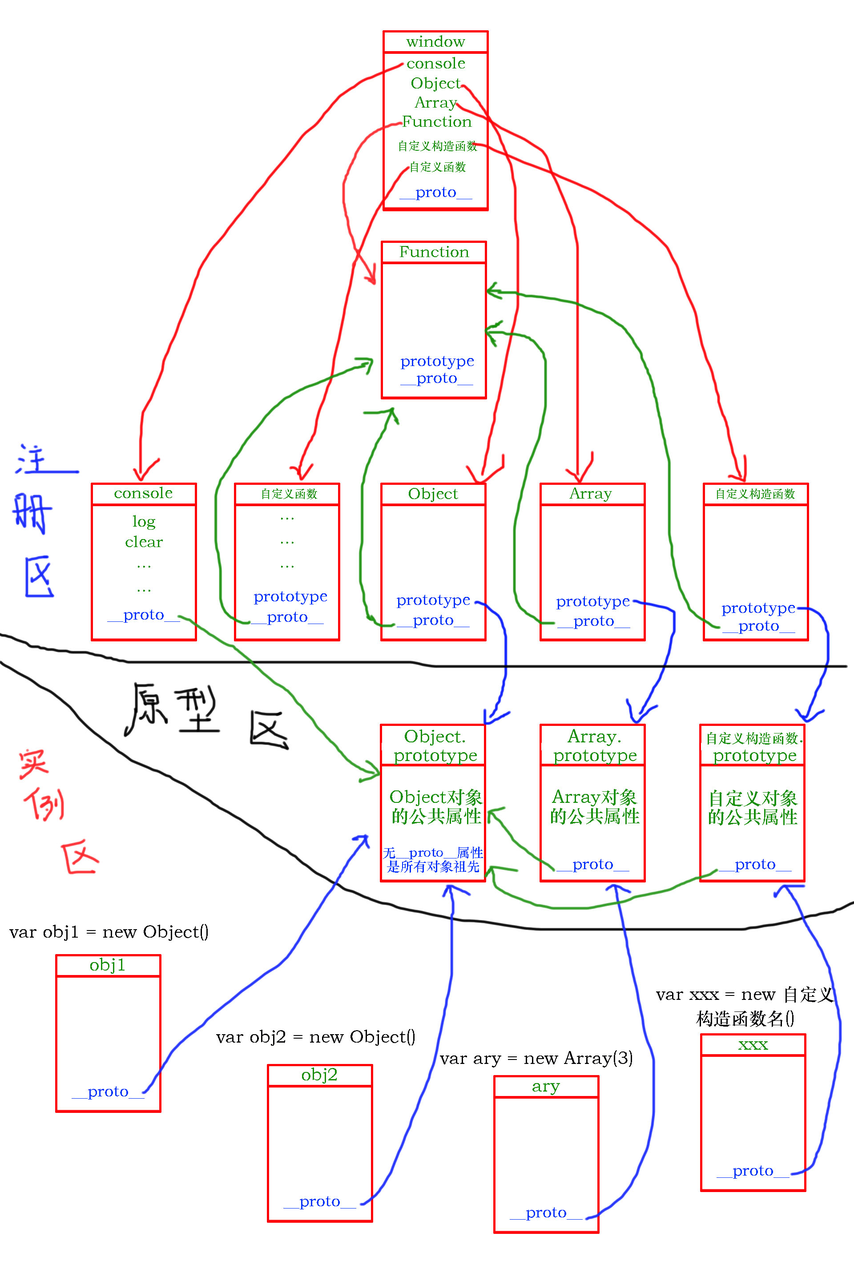
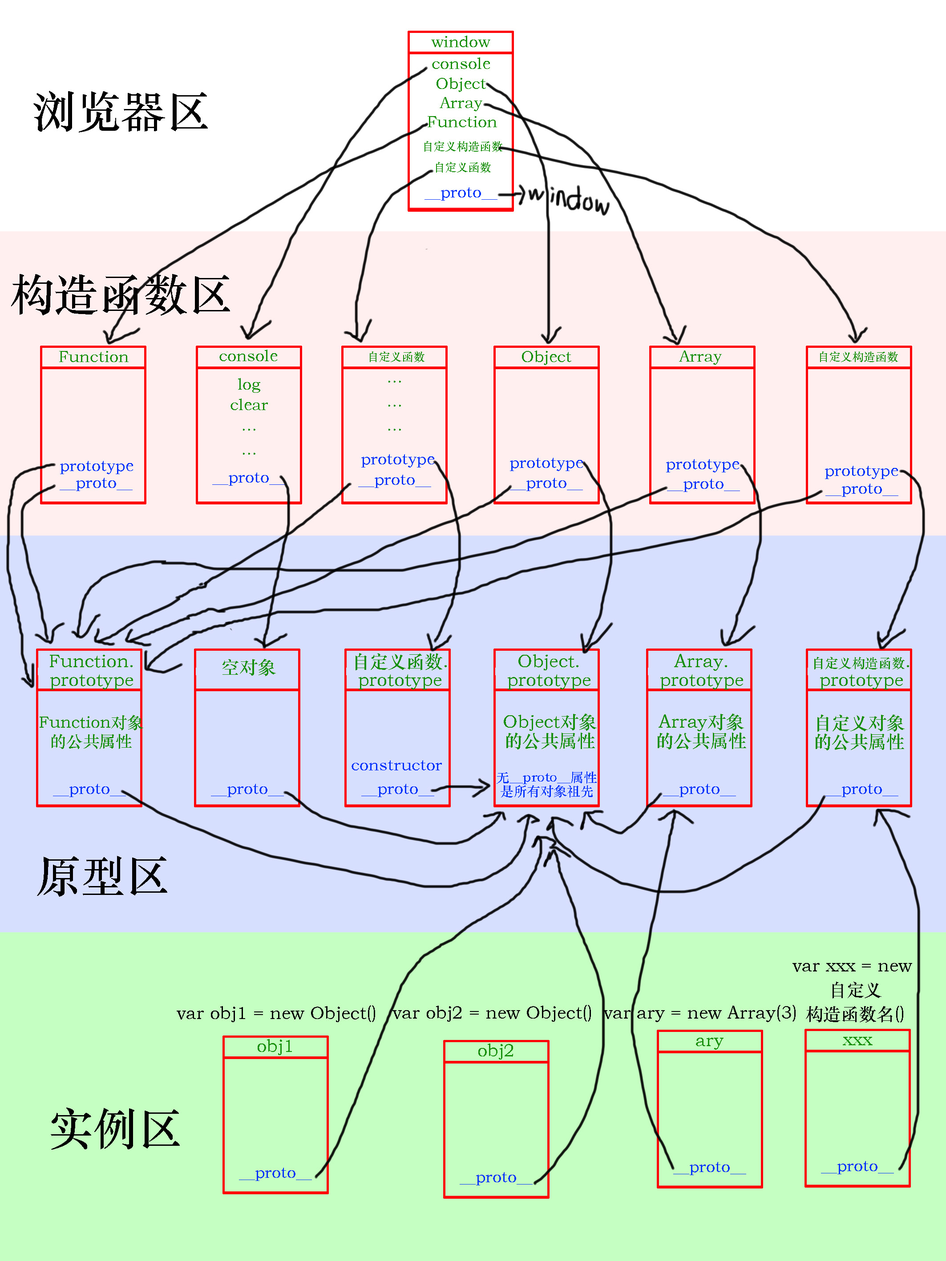
修改博客

diff --git a/posts/javascript-mountain-proto/index.html b/posts/javascript-mountain-proto/index.html
@@ -84,14 +84,14 @@
         "@context": "https://schema.org",
         "@type": "BlogPosting",
         "datePublished": "2020-02-01T21:43:40+08:00",
-        "dateModified": "2020-02-01T21:48:25+08:00",
+        "dateModified": "2020-02-02T00:00:59+08:00",
         "url": "https://twinklelixn.top/posts/javascript-mountain-proto/",
         "headline": "JS三座大山之原型",
         "description": "1. 什么是原型 原型这个东西真的是JavaScript原创的，和别的语言的抽象和继承不太……",
         "keywords": "js三座大山, 原型",
         "inLanguage" : "zh-CN",
         "articleSection": "posts",
-        "wordCount":  2044 ,
+        "wordCount":  1952 ,
         "image": ["https://twinklelixn.top/imgs/JS%E5%8E%9F%E5%9E%8B%E4%B8%96%E7%95%8C.jpg"],
         "author": {
             "@type": "Person",
@@ -141,7 +141,7 @@
 <meta property="og:locale" content="zh-CN" /><meta property="og:image" content="https://twinklelixn.top/imgs/JS%E5%8E%9F%E5%9E%8B%E4%B8%96%E7%95%8C.jpg" />
 <meta property="og:type" content="article" />
     <meta property="article:published_time" content="2020-02-01T21:43:40+08:00" />
-    <meta property="article:modified_time" content="2020-02-01T21:48:25+08:00" />
+    <meta property="article:modified_time" content="2020-02-02T00:00:59+08:00" />
     
     <meta property="article:section" content="posts" />
     <meta property="article:tag" content="js三座大山, 原型" />
@@ -220,7 +220,7 @@
     
     
         
-        <time datetime="2020-02-01T21:48:25+08:00" class="post-meta-item modified"><svg xmlns="http://www.w3.org/2000/svg" viewBox="0 0 448 512" class="icon post-meta-icon"><path d="M400 64h-48V12c0-6.627-5.373-12-12-12h-40c-6.627 0-12 5.373-12 12v52H160V12c0-6.627-5.373-12-12-12h-40c-6.627 0-12 5.373-12 12v52H48C21.49 64 0 85.49 0 112v352c0 26.51 21.49 48 48 48h352c26.51 0 48-21.49 48-48V112c0-26.51-21.49-48-48-48zm-6 400H54a6 6 0 0 1-6-6V160h352v298a6 6 0 0 1-6 6zm-52.849-200.65L198.842 404.519c-4.705 4.667-12.303 4.637-16.971-.068l-75.091-75.699c-4.667-4.705-4.637-12.303.068-16.971l22.719-22.536c4.705-4.667 12.303-4.637 16.97.069l44.104 44.461 111.072-110.181c4.705-4.667 12.303-4.637 16.971.068l22.536 22.718c4.667 4.705 4.636 12.303-.069 16.97z"/></svg>&nbsp;2020.2.1</time>
+        <time datetime="2020-02-02T00:00:59+08:00" class="post-meta-item modified"><svg xmlns="http://www.w3.org/2000/svg" viewBox="0 0 448 512" class="icon post-meta-icon"><path d="M400 64h-48V12c0-6.627-5.373-12-12-12h-40c-6.627 0-12 5.373-12 12v52H160V12c0-6.627-5.373-12-12-12h-40c-6.627 0-12 5.373-12 12v52H48C21.49 64 0 85.49 0 112v352c0 26.51 21.49 48 48 48h352c26.51 0 48-21.49 48-48V112c0-26.51-21.49-48-48-48zm-6 400H54a6 6 0 0 1-6-6V160h352v298a6 6 0 0 1-6 6zm-52.849-200.65L198.842 404.519c-4.705 4.667-12.303 4.637-16.971-.068l-75.091-75.699c-4.667-4.705-4.637-12.303.068-16.971l22.719-22.536c4.705-4.667 12.303-4.637 16.97.069l44.104 44.461 111.072-110.181c4.705-4.667 12.303-4.637 16.971.068l22.536 22.718c4.667 4.705 4.636 12.303-.069 16.97z"/></svg>&nbsp;2020.2.2</time>
     
     
     
@@ -235,11 +235,11 @@
     
     
         
-        <span class="post-meta-item wordcount"><svg xmlns="http://www.w3.org/2000/svg" viewBox="0 0 512 512" class="icon post-meta-icon"><path d="M497.9 142.1l-46.1 46.1c-4.7 4.7-12.3 4.7-17 0l-111-111c-4.7-4.7-4.7-12.3 0-17l46.1-46.1c18.7-18.7 49.1-18.7 67.9 0l60.1 60.1c18.8 18.7 18.8 49.1 0 67.9zM284.2 99.8L21.6 362.4.4 483.9c-2.9 16.4 11.4 30.6 27.8 27.8l121.5-21.3 262.6-262.6c4.7-4.7 4.7-12.3 0-17l-111-111c-4.8-4.7-12.4-4.7-17.1 0zM124.1 339.9c-5.5-5.5-5.5-14.3 0-19.8l154-154c5.5-5.5 14.3-5.5 19.8 0s5.5 14.3 0 19.8l-154 154c-5.5 5.5-14.3 5.5-19.8 0zM88 424h48v36.3l-64.5 11.3-31.1-31.1L51.7 376H88v48z"/></svg>&nbsp;2044</span>
+        <span class="post-meta-item wordcount"><svg xmlns="http://www.w3.org/2000/svg" viewBox="0 0 512 512" class="icon post-meta-icon"><path d="M497.9 142.1l-46.1 46.1c-4.7 4.7-12.3 4.7-17 0l-111-111c-4.7-4.7-4.7-12.3 0-17l46.1-46.1c18.7-18.7 49.1-18.7 67.9 0l60.1 60.1c18.8 18.7 18.8 49.1 0 67.9zM284.2 99.8L21.6 362.4.4 483.9c-2.9 16.4 11.4 30.6 27.8 27.8l121.5-21.3 262.6-262.6c4.7-4.7 4.7-12.3 0-17l-111-111c-4.8-4.7-12.4-4.7-17.1 0zM124.1 339.9c-5.5-5.5-5.5-14.3 0-19.8l154-154c5.5-5.5 14.3-5.5 19.8 0s5.5 14.3 0 19.8l-154 154c-5.5 5.5-14.3 5.5-19.8 0zM88 424h48v36.3l-64.5 11.3-31.1-31.1L51.7 376H88v48z"/></svg>&nbsp;1952</span>
     
     
         
-        <span class="post-meta-item reading-time"><svg xmlns="http://www.w3.org/2000/svg" viewBox="0 0 512 512" class="icon post-meta-icon"><path d="M256 8C119 8 8 119 8 256s111 248 248 248 248-111 248-248S393 8 256 8zm0 448c-110.5 0-200-89.5-200-200S145.5 56 256 56s200 89.5 200 200-89.5 200-200 200zm61.8-104.4l-84.9-61.7c-3.1-2.3-4.9-5.9-4.9-9.7V116c0-6.6 5.4-12 12-12h32c6.6 0 12 5.4 12 12v141.7l66.8 48.6c5.4 3.9 6.5 11.4 2.6 16.8L334.6 349c-3.9 5.3-11.4 6.5-16.8 2.6z"/></svg>&nbsp;5&nbsp;分钟</span>
+        <span class="post-meta-item reading-time"><svg xmlns="http://www.w3.org/2000/svg" viewBox="0 0 512 512" class="icon post-meta-icon"><path d="M256 8C119 8 8 119 8 256s111 248 248 248 248-111 248-248S393 8 256 8zm0 448c-110.5 0-200-89.5-200-200S145.5 56 256 56s200 89.5 200 200-89.5 200-200 200zm61.8-104.4l-84.9-61.7c-3.1-2.3-4.9-5.9-4.9-9.7V116c0-6.6 5.4-12 12-12h32c6.6 0 12 5.4 12 12v141.7l66.8 48.6c5.4 3.9 6.5 11.4 2.6 16.8L334.6 349c-3.9 5.3-11.4 6.5-16.8 2.6z"/></svg>&nbsp;4&nbsp;分钟</span>
     
     
 </div>
@@ -259,11 +259,18 @@
 <h5 id="4---用户可通过构造函数创建自定义的对象分类并自定义其原型对象内容"><a href="#4---用户可通过构造函数创建自定义的对象分类并自定义其原型对象内容" class="anchor-link"><svg xmlns="http://www.w3.org/2000/svg" viewBox="0 0 512 512" class="icon anchor-icon"><path d="M326.612 185.391c59.747 59.809 58.927 155.698.36 214.59-.11.12-.24.25-.36.37l-67.2 67.2c-59.27 59.27-155.699 59.262-214.96 0-59.27-59.26-59.27-155.7 0-214.96l37.106-37.106c9.84-9.84 26.786-3.3 27.294 10.606.648 17.722 3.826 35.527 9.69 52.721 1.986 5.822.567 12.262-3.783 16.612l-13.087 13.087c-28.026 28.026-28.905 73.66-1.155 101.96 28.024 28.579 74.086 28.749 102.325.51l67.2-67.19c28.191-28.191 28.073-73.757 0-101.83-3.701-3.694-7.429-6.564-10.341-8.569a16.037 16.037 0 0 1-6.947-12.606c-.396-10.567 3.348-21.456 11.698-29.806l21.054-21.055c5.521-5.521 14.182-6.199 20.584-1.731a152.482 152.482 0 0 1 20.522 17.197zM467.547 44.449c-59.261-59.262-155.69-59.27-214.96 0l-67.2 67.2c-.12.12-.25.25-.36.37-58.566 58.892-59.387 154.781.36 214.59a152.454 152.454 0 0 0 20.521 17.196c6.402 4.468 15.064 3.789 20.584-1.731l21.054-21.055c8.35-8.35 12.094-19.239 11.698-29.806a16.037 16.037 0 0 0-6.947-12.606c-2.912-2.005-6.64-4.875-10.341-8.569-28.073-28.073-28.191-73.639 0-101.83l67.2-67.19c28.239-28.239 74.3-28.069 102.325.51 27.75 28.3 26.872 73.934-1.155 101.96l-13.087 13.087c-4.35 4.35-5.769 10.79-3.783 16.612 5.864 17.194 9.042 34.999 9.69 52.721.509 13.906 17.454 20.446 27.294 10.606l37.106-37.106c59.271-59.259 59.271-155.699.001-214.959z"/></svg></a>4)   用户可通过构造函数创建自定义的对象分类，并自定义其原型对象内容。</h5>
 <p>好了，记住以上问题就可以看如下关系草图了：</p>
 <p><img src="/imgs/JS%E5%8E%9F%E5%9E%8B%E4%B8%96%E7%95%8C.jpg" alt="JS原型世界" data-zoomable></p>
-<p>以上草图将各类对象间的联系画的很清楚，也可以看出，在JS中，对象之间都是有联系的，以上只需要搞清楚三个区域即可，原型就是在原型区。而且，其实对象根本就没有名字，只有一个地址，上面赋予的对象名字其实是值等于该对象地址的属性名或者变量名。</p>
-<p>而且再钻牛角尖一点可以看到，上图的Function函数对象的prototype属性和__proto__属性没有画指向对象，这个比较复杂，而且难以理解，其实，Function对象的prototype属性指向的对象是自己，然后指向对象的__proto__属性指向的是祖宗对象Object.prototype。也就是说，prototype属性从自己饶了一圈指向祖宗对象。然后Function对象的__proto__属性指向的对象是自己，然后指向对象的__proto__属性指向的是祖宗对象Object.prototype，也就是说，__proto__属性也是从自己饶了一圈指向祖宗对象。</p>
-<p>奇怪不，prototype自己绕一圈可以理解，你个__proto__绕一圈是为啥？</p>
-<p>所以，暂时不深究，只需要理解原型的由来和可自定义即可。</p>
-<h2 id="3-原型运用"><a href="#3-原型运用" class="anchor-link"><svg xmlns="http://www.w3.org/2000/svg" viewBox="0 0 512 512" class="icon anchor-icon"><path d="M326.612 185.391c59.747 59.809 58.927 155.698.36 214.59-.11.12-.24.25-.36.37l-67.2 67.2c-59.27 59.27-155.699 59.262-214.96 0-59.27-59.26-59.27-155.7 0-214.96l37.106-37.106c9.84-9.84 26.786-3.3 27.294 10.606.648 17.722 3.826 35.527 9.69 52.721 1.986 5.822.567 12.262-3.783 16.612l-13.087 13.087c-28.026 28.026-28.905 73.66-1.155 101.96 28.024 28.579 74.086 28.749 102.325.51l67.2-67.19c28.191-28.191 28.073-73.757 0-101.83-3.701-3.694-7.429-6.564-10.341-8.569a16.037 16.037 0 0 1-6.947-12.606c-.396-10.567 3.348-21.456 11.698-29.806l21.054-21.055c5.521-5.521 14.182-6.199 20.584-1.731a152.482 152.482 0 0 1 20.522 17.197zM467.547 44.449c-59.261-59.262-155.69-59.27-214.96 0l-67.2 67.2c-.12.12-.25.25-.36.37-58.566 58.892-59.387 154.781.36 214.59a152.454 152.454 0 0 0 20.521 17.196c6.402 4.468 15.064 3.789 20.584-1.731l21.054-21.055c8.35-8.35 12.094-19.239 11.698-29.806a16.037 16.037 0 0 0-6.947-12.606c-2.912-2.005-6.64-4.875-10.341-8.569-28.073-28.073-28.191-73.639 0-101.83l67.2-67.19c28.239-28.239 74.3-28.069 102.325.51 27.75 28.3 26.872 73.934-1.155 101.96l-13.087 13.087c-4.35 4.35-5.769 10.79-3.783 16.612 5.864 17.194 9.042 34.999 9.69 52.721.509 13.906 17.454 20.446 27.294 10.606l37.106-37.106c59.271-59.259 59.271-155.699.001-214.959z"/></svg></a>3. 原型运用</h2>
+<p>以上草图将各类对象间的联系画的很清楚，也可以看出，在JS中，对象之间都是有联系的，以上只需要搞清楚三个区域即可，即构造函数区、原型区、实例区。window是属于浏览器的，不在JS世界里，不用深究。我们提到的原型就是在原型区。</p>
+<p>而且，其实对象根本就没有名字，只有一个地址，上面赋予的对象名字其实是值等于该对象地址的属性名或者变量名，为了方便画图才给对象命名的，实际是对象没名字，只有个地址。</p>
+<h2 id="3-原型定律"><a href="#3-原型定律" class="anchor-link"><svg xmlns="http://www.w3.org/2000/svg" viewBox="0 0 512 512" class="icon anchor-icon"><path d="M326.612 185.391c59.747 59.809 58.927 155.698.36 214.59-.11.12-.24.25-.36.37l-67.2 67.2c-59.27 59.27-155.699 59.262-214.96 0-59.27-59.26-59.27-155.7 0-214.96l37.106-37.106c9.84-9.84 26.786-3.3 27.294 10.606.648 17.722 3.826 35.527 9.69 52.721 1.986 5.822.567 12.262-3.783 16.612l-13.087 13.087c-28.026 28.026-28.905 73.66-1.155 101.96 28.024 28.579 74.086 28.749 102.325.51l67.2-67.19c28.191-28.191 28.073-73.757 0-101.83-3.701-3.694-7.429-6.564-10.341-8.569a16.037 16.037 0 0 1-6.947-12.606c-.396-10.567 3.348-21.456 11.698-29.806l21.054-21.055c5.521-5.521 14.182-6.199 20.584-1.731a152.482 152.482 0 0 1 20.522 17.197zM467.547 44.449c-59.261-59.262-155.69-59.27-214.96 0l-67.2 67.2c-.12.12-.25.25-.36.37-58.566 58.892-59.387 154.781.36 214.59a152.454 152.454 0 0 0 20.521 17.196c6.402 4.468 15.064 3.789 20.584-1.731l21.054-21.055c8.35-8.35 12.094-19.239 11.698-29.806a16.037 16.037 0 0 0-6.947-12.606c-2.912-2.005-6.64-4.875-10.341-8.569-28.073-28.073-28.191-73.639 0-101.83l67.2-67.19c28.239-28.239 74.3-28.069 102.325.51 27.75 28.3 26.872 73.934-1.155 101.96l-13.087 13.087c-4.35 4.35-5.769 10.79-3.783 16.612 5.864 17.194 9.042 34.999 9.69 52.721.509 13.906 17.454 20.446 27.294 10.606l37.106-37.106c59.271-59.259 59.271-155.699.001-214.959z"/></svg></a>3. 原型定律</h2>
+<h4 id="31--js公式"><a href="#31--js公式" class="anchor-link"><svg xmlns="http://www.w3.org/2000/svg" viewBox="0 0 512 512" class="icon anchor-icon"><path d="M326.612 185.391c59.747 59.809 58.927 155.698.36 214.59-.11.12-.24.25-.36.37l-67.2 67.2c-59.27 59.27-155.699 59.262-214.96 0-59.27-59.26-59.27-155.7 0-214.96l37.106-37.106c9.84-9.84 26.786-3.3 27.294 10.606.648 17.722 3.826 35.527 9.69 52.721 1.986 5.822.567 12.262-3.783 16.612l-13.087 13.087c-28.026 28.026-28.905 73.66-1.155 101.96 28.024 28.579 74.086 28.749 102.325.51l67.2-67.19c28.191-28.191 28.073-73.757 0-101.83-3.701-3.694-7.429-6.564-10.341-8.569a16.037 16.037 0 0 1-6.947-12.606c-.396-10.567 3.348-21.456 11.698-29.806l21.054-21.055c5.521-5.521 14.182-6.199 20.584-1.731a152.482 152.482 0 0 1 20.522 17.197zM467.547 44.449c-59.261-59.262-155.69-59.27-214.96 0l-67.2 67.2c-.12.12-.25.25-.36.37-58.566 58.892-59.387 154.781.36 214.59a152.454 152.454 0 0 0 20.521 17.196c6.402 4.468 15.064 3.789 20.584-1.731l21.054-21.055c8.35-8.35 12.094-19.239 11.698-29.806a16.037 16.037 0 0 0-6.947-12.606c-2.912-2.005-6.64-4.875-10.341-8.569-28.073-28.073-28.191-73.639 0-101.83l67.2-67.19c28.239-28.239 74.3-28.069 102.325.51 27.75 28.3 26.872 73.934-1.155 101.96l-13.087 13.087c-4.35 4.35-5.769 10.79-3.783 16.612 5.864 17.194 9.042 34.999 9.69 52.721.509 13.906 17.454 20.446 27.294 10.606l37.106-37.106c59.271-59.259 59.271-155.699.001-214.959z"/></svg></a>3.1  JS公式</h4>
+<h4 id="对象__proto__----其构造函数prototype"><a href="#对象__proto__----其构造函数prototype" class="anchor-link"><svg xmlns="http://www.w3.org/2000/svg" viewBox="0 0 512 512" class="icon anchor-icon"><path d="M326.612 185.391c59.747 59.809 58.927 155.698.36 214.59-.11.12-.24.25-.36.37l-67.2 67.2c-59.27 59.27-155.699 59.262-214.96 0-59.27-59.26-59.27-155.7 0-214.96l37.106-37.106c9.84-9.84 26.786-3.3 27.294 10.606.648 17.722 3.826 35.527 9.69 52.721 1.986 5.822.567 12.262-3.783 16.612l-13.087 13.087c-28.026 28.026-28.905 73.66-1.155 101.96 28.024 28.579 74.086 28.749 102.325.51l67.2-67.19c28.191-28.191 28.073-73.757 0-101.83-3.701-3.694-7.429-6.564-10.341-8.569a16.037 16.037 0 0 1-6.947-12.606c-.396-10.567 3.348-21.456 11.698-29.806l21.054-21.055c5.521-5.521 14.182-6.199 20.584-1.731a152.482 152.482 0 0 1 20.522 17.197zM467.547 44.449c-59.261-59.262-155.69-59.27-214.96 0l-67.2 67.2c-.12.12-.25.25-.36.37-58.566 58.892-59.387 154.781.36 214.59a152.454 152.454 0 0 0 20.521 17.196c6.402 4.468 15.064 3.789 20.584-1.731l21.054-21.055c8.35-8.35 12.094-19.239 11.698-29.806a16.037 16.037 0 0 0-6.947-12.606c-2.912-2.005-6.64-4.875-10.341-8.569-28.073-28.073-28.191-73.639 0-101.83l67.2-67.19c28.239-28.239 74.3-28.069 102.325.51 27.75 28.3 26.872 73.934-1.155 101.96l-13.087 13.087c-4.35 4.35-5.769 10.79-3.783 16.612 5.864 17.194 9.042 34.999 9.69 52.721.509 13.906 17.454 20.446 27.294 10.606l37.106-37.106c59.271-59.259 59.271-155.699.001-214.959z"/></svg></a>对象.__proto__  ===  其构造函数.prototype</h4>
+<h4 id="32--根公理"><a href="#32--根公理" class="anchor-link"><svg xmlns="http://www.w3.org/2000/svg" viewBox="0 0 512 512" class="icon anchor-icon"><path d="M326.612 185.391c59.747 59.809 58.927 155.698.36 214.59-.11.12-.24.25-.36.37l-67.2 67.2c-59.27 59.27-155.699 59.262-214.96 0-59.27-59.26-59.27-155.7 0-214.96l37.106-37.106c9.84-9.84 26.786-3.3 27.294 10.606.648 17.722 3.826 35.527 9.69 52.721 1.986 5.822.567 12.262-3.783 16.612l-13.087 13.087c-28.026 28.026-28.905 73.66-1.155 101.96 28.024 28.579 74.086 28.749 102.325.51l67.2-67.19c28.191-28.191 28.073-73.757 0-101.83-3.701-3.694-7.429-6.564-10.341-8.569a16.037 16.037 0 0 1-6.947-12.606c-.396-10.567 3.348-21.456 11.698-29.806l21.054-21.055c5.521-5.521 14.182-6.199 20.584-1.731a152.482 152.482 0 0 1 20.522 17.197zM467.547 44.449c-59.261-59.262-155.69-59.27-214.96 0l-67.2 67.2c-.12.12-.25.25-.36.37-58.566 58.892-59.387 154.781.36 214.59a152.454 152.454 0 0 0 20.521 17.196c6.402 4.468 15.064 3.789 20.584-1.731l21.054-21.055c8.35-8.35 12.094-19.239 11.698-29.806a16.037 16.037 0 0 0-6.947-12.606c-2.912-2.005-6.64-4.875-10.341-8.569-28.073-28.073-28.191-73.639 0-101.83l67.2-67.19c28.239-28.239 74.3-28.069 102.325.51 27.75 28.3 26.872 73.934-1.155 101.96l-13.087 13.087c-4.35 4.35-5.769 10.79-3.783 16.612 5.864 17.194 9.042 34.999 9.69 52.721.509 13.906 17.454 20.446 27.294 10.606l37.106-37.106c59.271-59.259 59.271-155.699.001-214.959z"/></svg></a>3.2  根公理</h4>
+<h4 id="objectprototype是所有对象的直接或间接原型"><a href="#objectprototype是所有对象的直接或间接原型" class="anchor-link"><svg xmlns="http://www.w3.org/2000/svg" viewBox="0 0 512 512" class="icon anchor-icon"><path d="M326.612 185.391c59.747 59.809 58.927 155.698.36 214.59-.11.12-.24.25-.36.37l-67.2 67.2c-59.27 59.27-155.699 59.262-214.96 0-59.27-59.26-59.27-155.7 0-214.96l37.106-37.106c9.84-9.84 26.786-3.3 27.294 10.606.648 17.722 3.826 35.527 9.69 52.721 1.986 5.822.567 12.262-3.783 16.612l-13.087 13.087c-28.026 28.026-28.905 73.66-1.155 101.96 28.024 28.579 74.086 28.749 102.325.51l67.2-67.19c28.191-28.191 28.073-73.757 0-101.83-3.701-3.694-7.429-6.564-10.341-8.569a16.037 16.037 0 0 1-6.947-12.606c-.396-10.567 3.348-21.456 11.698-29.806l21.054-21.055c5.521-5.521 14.182-6.199 20.584-1.731a152.482 152.482 0 0 1 20.522 17.197zM467.547 44.449c-59.261-59.262-155.69-59.27-214.96 0l-67.2 67.2c-.12.12-.25.25-.36.37-58.566 58.892-59.387 154.781.36 214.59a152.454 152.454 0 0 0 20.521 17.196c6.402 4.468 15.064 3.789 20.584-1.731l21.054-21.055c8.35-8.35 12.094-19.239 11.698-29.806a16.037 16.037 0 0 0-6.947-12.606c-2.912-2.005-6.64-4.875-10.341-8.569-28.073-28.073-28.191-73.639 0-101.83l67.2-67.19c28.239-28.239 74.3-28.069 102.325.51 27.75 28.3 26.872 73.934-1.155 101.96l-13.087 13.087c-4.35 4.35-5.769 10.79-3.783 16.612 5.864 17.194 9.042 34.999 9.69 52.721.509 13.906 17.454 20.446 27.294 10.606l37.106-37.106c59.271-59.259 59.271-155.699.001-214.959z"/></svg></a>Object.prototype是所有对象的(直接或间接)原型</h4>
+<h4 id="33-函数公理"><a href="#33-函数公理" class="anchor-link"><svg xmlns="http://www.w3.org/2000/svg" viewBox="0 0 512 512" class="icon anchor-icon"><path d="M326.612 185.391c59.747 59.809 58.927 155.698.36 214.59-.11.12-.24.25-.36.37l-67.2 67.2c-59.27 59.27-155.699 59.262-214.96 0-59.27-59.26-59.27-155.7 0-214.96l37.106-37.106c9.84-9.84 26.786-3.3 27.294 10.606.648 17.722 3.826 35.527 9.69 52.721 1.986 5.822.567 12.262-3.783 16.612l-13.087 13.087c-28.026 28.026-28.905 73.66-1.155 101.96 28.024 28.579 74.086 28.749 102.325.51l67.2-67.19c28.191-28.191 28.073-73.757 0-101.83-3.701-3.694-7.429-6.564-10.341-8.569a16.037 16.037 0 0 1-6.947-12.606c-.396-10.567 3.348-21.456 11.698-29.806l21.054-21.055c5.521-5.521 14.182-6.199 20.584-1.731a152.482 152.482 0 0 1 20.522 17.197zM467.547 44.449c-59.261-59.262-155.69-59.27-214.96 0l-67.2 67.2c-.12.12-.25.25-.36.37-58.566 58.892-59.387 154.781.36 214.59a152.454 152.454 0 0 0 20.521 17.196c6.402 4.468 15.064 3.789 20.584-1.731l21.054-21.055c8.35-8.35 12.094-19.239 11.698-29.806a16.037 16.037 0 0 0-6.947-12.606c-2.912-2.005-6.64-4.875-10.341-8.569-28.073-28.073-28.191-73.639 0-101.83l67.2-67.19c28.239-28.239 74.3-28.069 102.325.51 27.75 28.3 26.872 73.934-1.155 101.96l-13.087 13.087c-4.35 4.35-5.769 10.79-3.783 16.612 5.864 17.194 9.042 34.999 9.69 52.721.509 13.906 17.454 20.446 27.294 10.606l37.106-37.106c59.271-59.259 59.271-155.699.001-214.959z"/></svg></a>3.3 函数公理</h4>
+<h4 id="所有函数都是由function构造的"><a href="#所有函数都是由function构造的" class="anchor-link"><svg xmlns="http://www.w3.org/2000/svg" viewBox="0 0 512 512" class="icon anchor-icon"><path d="M326.612 185.391c59.747 59.809 58.927 155.698.36 214.59-.11.12-.24.25-.36.37l-67.2 67.2c-59.27 59.27-155.699 59.262-214.96 0-59.27-59.26-59.27-155.7 0-214.96l37.106-37.106c9.84-9.84 26.786-3.3 27.294 10.606.648 17.722 3.826 35.527 9.69 52.721 1.986 5.822.567 12.262-3.783 16.612l-13.087 13.087c-28.026 28.026-28.905 73.66-1.155 101.96 28.024 28.579 74.086 28.749 102.325.51l67.2-67.19c28.191-28.191 28.073-73.757 0-101.83-3.701-3.694-7.429-6.564-10.341-8.569a16.037 16.037 0 0 1-6.947-12.606c-.396-10.567 3.348-21.456 11.698-29.806l21.054-21.055c5.521-5.521 14.182-6.199 20.584-1.731a152.482 152.482 0 0 1 20.522 17.197zM467.547 44.449c-59.261-59.262-155.69-59.27-214.96 0l-67.2 67.2c-.12.12-.25.25-.36.37-58.566 58.892-59.387 154.781.36 214.59a152.454 152.454 0 0 0 20.521 17.196c6.402 4.468 15.064 3.789 20.584-1.731l21.054-21.055c8.35-8.35 12.094-19.239 11.698-29.806a16.037 16.037 0 0 0-6.947-12.606c-2.912-2.005-6.64-4.875-10.341-8.569-28.073-28.073-28.191-73.639 0-101.83l67.2-67.19c28.239-28.239 74.3-28.069 102.325.51 27.75 28.3 26.872 73.934-1.155 101.96l-13.087 13.087c-4.35 4.35-5.769 10.79-3.783 16.612 5.864 17.194 9.042 34.999 9.69 52.721.509 13.906 17.454 20.446 27.294 10.606l37.106-37.106c59.271-59.259 59.271-155.699.001-214.959z"/></svg></a>所有函数都是由Function构造的</h4>
+<h4 id="任意函数__proto__-----functionprototype"><a href="#任意函数__proto__-----functionprototype" class="anchor-link"><svg xmlns="http://www.w3.org/2000/svg" viewBox="0 0 512 512" class="icon anchor-icon"><path d="M326.612 185.391c59.747 59.809 58.927 155.698.36 214.59-.11.12-.24.25-.36.37l-67.2 67.2c-59.27 59.27-155.699 59.262-214.96 0-59.27-59.26-59.27-155.7 0-214.96l37.106-37.106c9.84-9.84 26.786-3.3 27.294 10.606.648 17.722 3.826 35.527 9.69 52.721 1.986 5.822.567 12.262-3.783 16.612l-13.087 13.087c-28.026 28.026-28.905 73.66-1.155 101.96 28.024 28.579 74.086 28.749 102.325.51l67.2-67.19c28.191-28.191 28.073-73.757 0-101.83-3.701-3.694-7.429-6.564-10.341-8.569a16.037 16.037 0 0 1-6.947-12.606c-.396-10.567 3.348-21.456 11.698-29.806l21.054-21.055c5.521-5.521 14.182-6.199 20.584-1.731a152.482 152.482 0 0 1 20.522 17.197zM467.547 44.449c-59.261-59.262-155.69-59.27-214.96 0l-67.2 67.2c-.12.12-.25.25-.36.37-58.566 58.892-59.387 154.781.36 214.59a152.454 152.454 0 0 0 20.521 17.196c6.402 4.468 15.064 3.789 20.584-1.731l21.054-21.055c8.35-8.35 12.094-19.239 11.698-29.806a16.037 16.037 0 0 0-6.947-12.606c-2.912-2.005-6.64-4.875-10.341-8.569-28.073-28.073-28.191-73.639 0-101.83l67.2-67.19c28.239-28.239 74.3-28.069 102.325.51 27.75 28.3 26.872 73.934-1.155 101.96l-13.087 13.087c-4.35 4.35-5.769 10.79-3.783 16.612 5.864 17.194 9.042 34.999 9.69 52.721.509 13.906 17.454 20.446 27.294 10.606l37.106-37.106c59.271-59.259 59.271-155.699.001-214.959z"/></svg></a>任意函数.__proto__   ===  Function.prototype</h4>
+<p>以上公式是原型的通用定律，根据定律正推反推均可搞清楚原型，比如，问，一个对象的构造函数是啥，那就是问谁的prototype属性指向的对象是该对象的原型对象。</p>
+<h2 id="4-原型运用"><a href="#4-原型运用" class="anchor-link"><svg xmlns="http://www.w3.org/2000/svg" viewBox="0 0 512 512" class="icon anchor-icon"><path d="M326.612 185.391c59.747 59.809 58.927 155.698.36 214.59-.11.12-.24.25-.36.37l-67.2 67.2c-59.27 59.27-155.699 59.262-214.96 0-59.27-59.26-59.27-155.7 0-214.96l37.106-37.106c9.84-9.84 26.786-3.3 27.294 10.606.648 17.722 3.826 35.527 9.69 52.721 1.986 5.822.567 12.262-3.783 16.612l-13.087 13.087c-28.026 28.026-28.905 73.66-1.155 101.96 28.024 28.579 74.086 28.749 102.325.51l67.2-67.19c28.191-28.191 28.073-73.757 0-101.83-3.701-3.694-7.429-6.564-10.341-8.569a16.037 16.037 0 0 1-6.947-12.606c-.396-10.567 3.348-21.456 11.698-29.806l21.054-21.055c5.521-5.521 14.182-6.199 20.584-1.731a152.482 152.482 0 0 1 20.522 17.197zM467.547 44.449c-59.261-59.262-155.69-59.27-214.96 0l-67.2 67.2c-.12.12-.25.25-.36.37-58.566 58.892-59.387 154.781.36 214.59a152.454 152.454 0 0 0 20.521 17.196c6.402 4.468 15.064 3.789 20.584-1.731l21.054-21.055c8.35-8.35 12.094-19.239 11.698-29.806a16.037 16.037 0 0 0-6.947-12.606c-2.912-2.005-6.64-4.875-10.341-8.569-28.073-28.073-28.191-73.639 0-101.83l67.2-67.19c28.239-28.239 74.3-28.069 102.325.51 27.75 28.3 26.872 73.934-1.155 101.96l-13.087 13.087c-4.35 4.35-5.769 10.79-3.783 16.612 5.864 17.194 9.042 34.999 9.69 52.721.509 13.906 17.454 20.446 27.294 10.606l37.106-37.106c59.271-59.259 59.271-155.699.001-214.959z"/></svg></a>4. 原型运用</h2>
 <p>以上只是介绍了什么是原型，理解了原型是什么，就可以灵活运行原型了，这个设计到JS对象原型的操作和JS构造函数的实现，具体可看构造函数的实现。</p>
 </div>
 
@@ -274,9 +281,9 @@
         
 
         
-    <div class="updated-badge-container"><div title="Updated @ 2020-02-01 21:48:25 CST" style="cursor:help;display:inline-block">
+    <div class="updated-badge-container"><div title="Updated @ 2020-02-02 00:00:59 CST" style="cursor:help;display:inline-block">
 
-<svg xmlns="http://www.w3.org/2000/svg" width="130" height="20" class="updated-badge"><linearGradient id="b" x2="0" y2="100%"><stop offset="0" stop-color="#bbb" stop-opacity=".1"/><stop offset="1" stop-opacity=".1"/></linearGradient><clipPath id="a"><rect width="130" height="20" rx="3" fill="#fff"/></clipPath><g clip-path="url(#a)"><path class="updated-badge-left" d="M0 0h55v20H0z"/><path class="updated-badge-right" d="M55 0h75v20H55z"/><path fill="url(#b)" d="M0 0h130v20H0z"/></g><g fill="#fff" text-anchor="middle" font-size="110"><text x="285" y="150" fill="#010101" fill-opacity=".3" textLength="450" transform="scale(.1)">updated</text><text x="285" y="140" textLength="450" transform="scale(.1)">updated</text><text x="915" y="150" fill="#010101" fill-opacity=".3" textLength="650" transform="scale(.1)">2020-02-01</text><text x="915" y="140" textLength="650" transform="scale(.1)">2020-02-01</text></g></svg></div></div>
+<svg xmlns="http://www.w3.org/2000/svg" width="130" height="20" class="updated-badge"><linearGradient id="b" x2="0" y2="100%"><stop offset="0" stop-color="#bbb" stop-opacity=".1"/><stop offset="1" stop-opacity=".1"/></linearGradient><clipPath id="a"><rect width="130" height="20" rx="3" fill="#fff"/></clipPath><g clip-path="url(#a)"><path class="updated-badge-left" d="M0 0h55v20H0z"/><path class="updated-badge-right" d="M55 0h75v20H55z"/><path fill="url(#b)" d="M0 0h130v20H0z"/></g><g fill="#fff" text-anchor="middle" font-size="110"><text x="285" y="150" fill="#010101" fill-opacity=".3" textLength="450" transform="scale(.1)">updated</text><text x="285" y="140" textLength="450" transform="scale(.1)">updated</text><text x="915" y="150" fill="#010101" fill-opacity=".3" textLength="650" transform="scale(.1)">2020-02-02</text><text x="915" y="140" textLength="650" transform="scale(.1)">2020-02-02</text></g></svg></div></div>
 
 
         

diff --git a/index.html b/index.html
@@ -84,7 +84,7 @@
         "@context": "https://schema.org",
         "@type": "WebSite",
         "datePublished": "2020-01-20T20:17:43+00:00",
-        "dateModified": "2020-02-01T21:51:45+08:00",
+        "dateModified": "2020-02-02T00:00:59+08:00",
         "url": "https://twinklelixn.top/",
         "description": "MemE 是一个强大且可高度定制的 GoHugo 博客主题，专为个人博客设计。",
         "keywords": "css, else, html, http, javascript, js三座大山, 博客搭建, array, css, github, html, html发展, html基本标签, html属性, html重点标签, http, hugo, javascript, js函数, js奇葩, js对象, js语法, markdown, this, url, 博客, 原型, 数据类型, 文档流, 盒模型, 编码方式, 进制转换",
@@ -302,7 +302,7 @@
     
     
         
-        <time datetime="2020-02-01T21:48:25+08:00" class="post-meta-item modified"><svg xmlns="http://www.w3.org/2000/svg" viewBox="0 0 448 512" class="icon post-meta-icon"><path d="M400 64h-48V12c0-6.627-5.373-12-12-12h-40c-6.627 0-12 5.373-12 12v52H160V12c0-6.627-5.373-12-12-12h-40c-6.627 0-12 5.373-12 12v52H48C21.49 64 0 85.49 0 112v352c0 26.51 21.49 48 48 48h352c26.51 0 48-21.49 48-48V112c0-26.51-21.49-48-48-48zm-6 400H54a6 6 0 0 1-6-6V160h352v298a6 6 0 0 1-6 6zm-52.849-200.65L198.842 404.519c-4.705 4.667-12.303 4.637-16.971-.068l-75.091-75.699c-4.667-4.705-4.637-12.303.068-16.971l22.719-22.536c4.705-4.667 12.303-4.637 16.97.069l44.104 44.461 111.072-110.181c4.705-4.667 12.303-4.637 16.971.068l22.536 22.718c4.667 4.705 4.636 12.303-.069 16.97z"/></svg>&nbsp;2020.2.1</time>
+        <time datetime="2020-02-02T00:00:59+08:00" class="post-meta-item modified"><svg xmlns="http://www.w3.org/2000/svg" viewBox="0 0 448 512" class="icon post-meta-icon"><path d="M400 64h-48V12c0-6.627-5.373-12-12-12h-40c-6.627 0-12 5.373-12 12v52H160V12c0-6.627-5.373-12-12-12h-40c-6.627 0-12 5.373-12 12v52H48C21.49 64 0 85.49 0 112v352c0 26.51 21.49 48 48 48h352c26.51 0 48-21.49 48-48V112c0-26.51-21.49-48-48-48zm-6 400H54a6 6 0 0 1-6-6V160h352v298a6 6 0 0 1-6 6zm-52.849-200.65L198.842 404.519c-4.705 4.667-12.303 4.637-16.971-.068l-75.091-75.699c-4.667-4.705-4.637-12.303.068-16.971l22.719-22.536c4.705-4.667 12.303-4.637 16.97.069l44.104 44.461 111.072-110.181c4.705-4.667 12.303-4.637 16.971.068l22.536 22.718c4.667 4.705 4.636 12.303-.069 16.97z"/></svg>&nbsp;2020.2.2</time>
     
     
     
@@ -317,11 +317,11 @@
     
     
         
-        <span class="post-meta-item wordcount"><svg xmlns="http://www.w3.org/2000/svg" viewBox="0 0 512 512" class="icon post-meta-icon"><path d="M497.9 142.1l-46.1 46.1c-4.7 4.7-12.3 4.7-17 0l-111-111c-4.7-4.7-4.7-12.3 0-17l46.1-46.1c18.7-18.7 49.1-18.7 67.9 0l60.1 60.1c18.8 18.7 18.8 49.1 0 67.9zM284.2 99.8L21.6 362.4.4 483.9c-2.9 16.4 11.4 30.6 27.8 27.8l121.5-21.3 262.6-262.6c4.7-4.7 4.7-12.3 0-17l-111-111c-4.8-4.7-12.4-4.7-17.1 0zM124.1 339.9c-5.5-5.5-5.5-14.3 0-19.8l154-154c5.5-5.5 14.3-5.5 19.8 0s5.5 14.3 0 19.8l-154 154c-5.5 5.5-14.3 5.5-19.8 0zM88 424h48v36.3l-64.5 11.3-31.1-31.1L51.7 376H88v48z"/></svg>&nbsp;2044</span>
+        <span class="post-meta-item wordcount"><svg xmlns="http://www.w3.org/2000/svg" viewBox="0 0 512 512" class="icon post-meta-icon"><path d="M497.9 142.1l-46.1 46.1c-4.7 4.7-12.3 4.7-17 0l-111-111c-4.7-4.7-4.7-12.3 0-17l46.1-46.1c18.7-18.7 49.1-18.7 67.9 0l60.1 60.1c18.8 18.7 18.8 49.1 0 67.9zM284.2 99.8L21.6 362.4.4 483.9c-2.9 16.4 11.4 30.6 27.8 27.8l121.5-21.3 262.6-262.6c4.7-4.7 4.7-12.3 0-17l-111-111c-4.8-4.7-12.4-4.7-17.1 0zM124.1 339.9c-5.5-5.5-5.5-14.3 0-19.8l154-154c5.5-5.5 14.3-5.5 19.8 0s5.5 14.3 0 19.8l-154 154c-5.5 5.5-14.3 5.5-19.8 0zM88 424h48v36.3l-64.5 11.3-31.1-31.1L51.7 376H88v48z"/></svg>&nbsp;1952</span>
     
     
         
-        <span class="post-meta-item reading-time"><svg xmlns="http://www.w3.org/2000/svg" viewBox="0 0 512 512" class="icon post-meta-icon"><path d="M256 8C119 8 8 119 8 256s111 248 248 248 248-111 248-248S393 8 256 8zm0 448c-110.5 0-200-89.5-200-200S145.5 56 256 56s200 89.5 200 200-89.5 200-200 200zm61.8-104.4l-84.9-61.7c-3.1-2.3-4.9-5.9-4.9-9.7V116c0-6.6 5.4-12 12-12h32c6.6 0 12 5.4 12 12v141.7l66.8 48.6c5.4 3.9 6.5 11.4 2.6 16.8L334.6 349c-3.9 5.3-11.4 6.5-16.8 2.6z"/></svg>&nbsp;5&nbsp;分钟</span>
+        <span class="post-meta-item reading-time"><svg xmlns="http://www.w3.org/2000/svg" viewBox="0 0 512 512" class="icon post-meta-icon"><path d="M256 8C119 8 8 119 8 256s111 248 248 248 248-111 248-248S393 8 256 8zm0 448c-110.5 0-200-89.5-200-200S145.5 56 256 56s200 89.5 200 200-89.5 200-200 200zm61.8-104.4l-84.9-61.7c-3.1-2.3-4.9-5.9-4.9-9.7V116c0-6.6 5.4-12 12-12h32c6.6 0 12 5.4 12 12v141.7l66.8 48.6c5.4 3.9 6.5 11.4 2.6 16.8L334.6 349c-3.9 5.3-11.4 6.5-16.8 2.6z"/></svg>&nbsp;4&nbsp;分钟</span>
     
     
 </div>

diff --git a/page/2/index.html b/page/2/index.html
@@ -84,7 +84,7 @@
         "@context": "https://schema.org",
         "@type": "WebSite",
         "datePublished": "2020-01-20T20:17:43+00:00",
-        "dateModified": "2020-02-01T21:51:45+08:00",
+        "dateModified": "2020-02-02T00:00:59+08:00",
         "url": "https://twinklelixn.top/",
         "description": "MemE 是一个强大且可高度定制的 GoHugo 博客主题，专为个人博客设计。",
         "keywords": "css, else, html, http, javascript, js三座大山, 博客搭建, array, css, github, html, html发展, html基本标签, html属性, html重点标签, http, hugo, javascript, js函数, js奇葩, js对象, js语法, markdown, this, url, 博客, 原型, 数据类型, 文档流, 盒模型, 编码方式, 进制转换",

diff --git a/page/3/index.html b/page/3/index.html
@@ -84,7 +84,7 @@
         "@context": "https://schema.org",
         "@type": "WebSite",
         "datePublished": "2020-01-20T20:17:43+00:00",
-        "dateModified": "2020-02-01T21:51:45+08:00",
+        "dateModified": "2020-02-02T00:00:59+08:00",
         "url": "https://twinklelixn.top/",
         "description": "MemE 是一个强大且可高度定制的 GoHugo 博客主题，专为个人博客设计。",
         "keywords": "css, else, html, http, javascript, js三座大山, 博客搭建, array, css, github, html, html发展, html基本标签, html属性, html重点标签, http, hugo, javascript, js函数, js奇葩, js对象, js语法, markdown, this, url, 博客, 原型, 数据类型, 文档流, 盒模型, 编码方式, 进制转换",

diff --git a/page/4/index.html b/page/4/index.html
@@ -84,7 +84,7 @@
         "@context": "https://schema.org",
         "@type": "WebSite",
         "datePublished": "2020-01-20T20:17:43+00:00",
-        "dateModified": "2020-02-01T21:51:45+08:00",
+        "dateModified": "2020-02-02T00:00:59+08:00",
         "url": "https://twinklelixn.top/",
         "description": "MemE 是一个强大且可高度定制的 GoHugo 博客主题，专为个人博客设计。",
         "keywords": "css, else, html, http, javascript, js三座大山, 博客搭建, array, css, github, html, html发展, html基本标签, html属性, html重点标签, http, hugo, javascript, js函数, js奇葩, js对象, js语法, markdown, this, url, 博客, 原型, 数据类型, 文档流, 盒模型, 编码方式, 进制转换",

diff --git a/page/5/index.html b/page/5/index.html
@@ -84,7 +84,7 @@
         "@context": "https://schema.org",
         "@type": "WebSite",
         "datePublished": "2020-01-20T20:17:43+00:00",
-        "dateModified": "2020-02-01T21:51:45+08:00",
+        "dateModified": "2020-02-02T00:00:59+08:00",
         "url": "https://twinklelixn.top/",
         "description": "MemE 是一个强大且可高度定制的 GoHugo 博客主题，专为个人博客设计。",
         "keywords": "css, else, html, http, javascript, js三座大山, 博客搭建, array, css, github, html, html发展, html基本标签, html属性, html重点标签, http, hugo, javascript, js函数, js奇葩, js对象, js语法, markdown, this, url, 博客, 原型, 数据类型, 文档流, 盒模型, 编码方式, 进制转换",

diff --git a/categories/js三座大山/index.html b/categories/js三座大山/index.html
@@ -82,7 +82,7 @@
         "@context": "https://schema.org",
         "@type": "WebPage",
         "datePublished": "2020-01-20T20:17:43+00:00",
-        "dateModified": "2020-02-01T21:49:25+08:00",
+        "dateModified": "2020-02-02T00:00:59+08:00",
         "url": "https://twinklelixn.top/categories/js%E4%B8%89%E5%BA%A7%E5%A4%A7%E5%B1%B1/",
         "name": "Categories: JS三座大山",
         "description": "MemE 是一个强大且可高度定制的 GoHugo 博客主题，专为个人博客设计。",

diff --git a/tags/原型/index.html b/tags/原型/index.html
@@ -82,7 +82,7 @@
         "@context": "https://schema.org",
         "@type": "WebPage",
         "datePublished": "2020-01-20T20:17:43+00:00",
-        "dateModified": "2020-02-01T21:48:25+08:00",
+        "dateModified": "2020-02-02T00:00:59+08:00",
         "url": "https://twinklelixn.top/tags/%E5%8E%9F%E5%9E%8B/",
         "name": "Tags: 原型",
         "description": "MemE 是一个强大且可高度定制的 GoHugo 博客主题，专为个人博客设计。",

diff --git a/categories/index.html b/categories/index.html
@@ -82,7 +82,7 @@
         "@context": "https://schema.org",
         "@type": "WebPage",
         "datePublished": "2020-01-20T20:17:43+00:00",
-        "dateModified": "2020-02-01T21:51:45+08:00",
+        "dateModified": "2020-02-02T00:00:59+08:00",
         "url": "https://twinklelixn.top/categories/",
         "name": "Categories",
         "description": "MemE 是一个强大且可高度定制的 GoHugo 博客主题，专为个人博客设计。",

diff --git a/posts/index.html b/posts/index.html
@@ -82,7 +82,7 @@
         "@context": "https://schema.org",
         "@type": "WebPage",
         "datePublished": "2020-01-20T20:17:43+00:00",
-        "dateModified": "2020-02-01T21:51:45+08:00",
+        "dateModified": "2020-02-02T00:00:59+08:00",
         "url": "https://twinklelixn.top/posts/",
         "name": "Posts",
         "description": "MemE 是一个强大且可高度定制的 GoHugo 博客主题，专为个人博客设计。",

diff --git a/tags/index.html b/tags/index.html
@@ -82,7 +82,7 @@
         "@context": "https://schema.org",
         "@type": "WebPage",
         "datePublished": "2020-01-20T20:17:43+00:00",
-        "dateModified": "2020-02-01T21:51:45+08:00",
+        "dateModified": "2020-02-02T00:00:59+08:00",
         "url": "https://twinklelixn.top/tags/",
         "name": "Tags",
         "description": "MemE 是一个强大且可高度定制的 GoHugo 博客主题，专为个人博客设计。",
